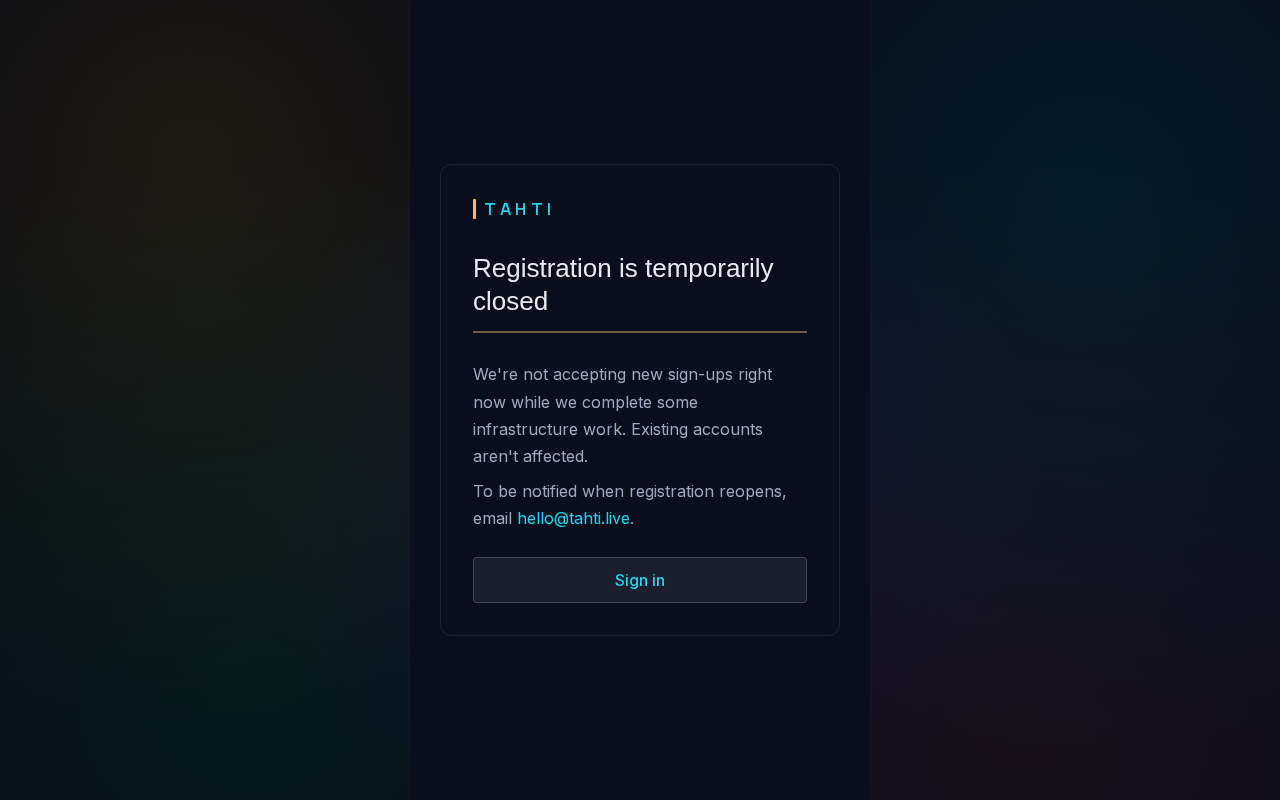
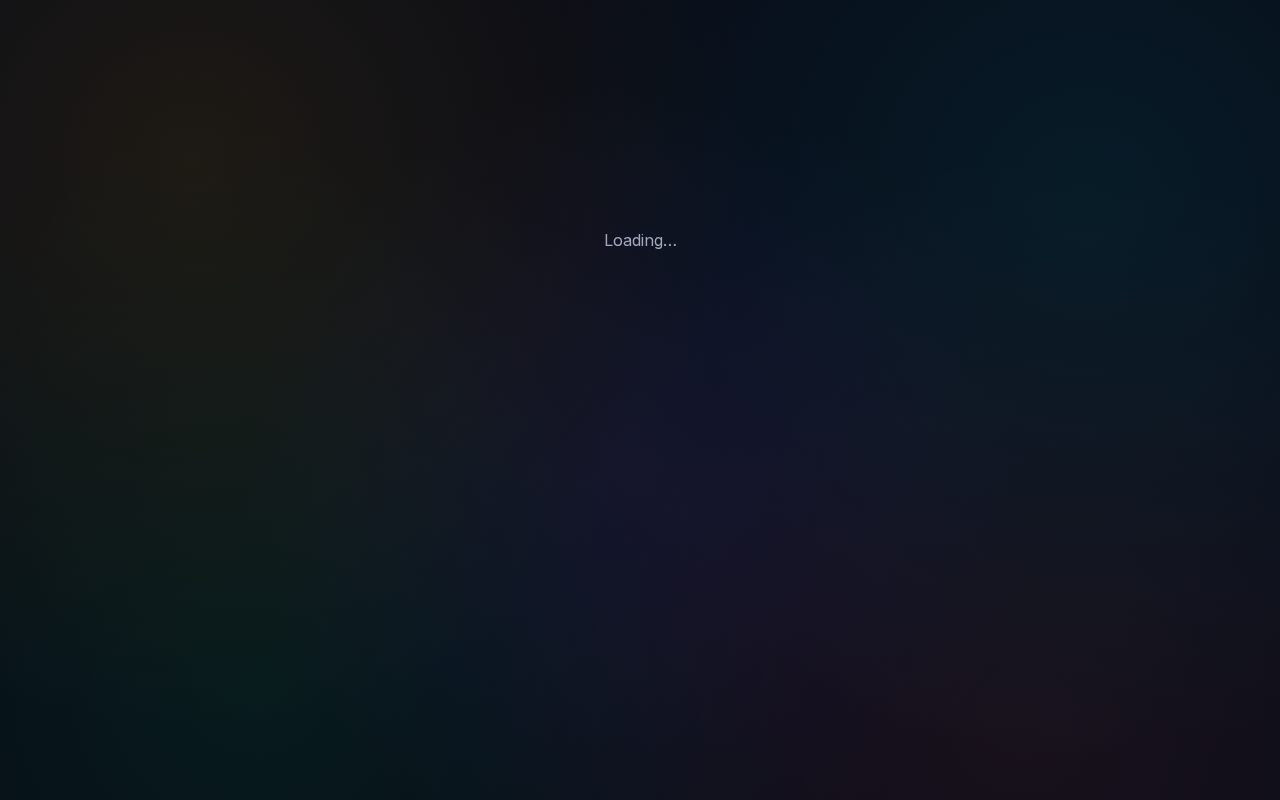
Reconcile governance docs and route map with implemented surfaces
Governance navigation moved audit to /admin/logs, resolutions into
the /admin/governance hub, and reports to /admin/reports. Update
flow docs, ground rules, project roadmap, phase-12 spec, and e2e
screenshot manifests to match, and add /transparency/methodology
to the sitemap. See docs/worklogs/2026-09-01-governance-route-map-update.md.

Claude-Session: https://claude.ai/code/session_01MqmWAFQbWz165kVPbjU8Wu

diff --git a/apps/web/src/app/sitemap.ts b/apps/web/src/app/sitemap.ts
@@ -28,6 +28,7 @@ export default async function sitemap(): Promise<MetadataRoute.Sitemap> {
   const staticPages: MetadataRoute.Sitemap = [
     { url: base, changeFrequency: 'weekly', priority: 1 },
     { url: `${base}/transparency`, changeFrequency: 'monthly', priority: 0.6 },
+    { url: `${base}/transparency/methodology`, changeFrequency: 'yearly', priority: 0.4 },
   ]
 
   const profileEntries: MetadataRoute.Sitemap = profiles.map((url) => ({

diff --git a/docs/flows/board-member.md b/docs/flows/board-member.md
@@ -81,9 +81,9 @@ flowchart TD
   Fin --> Ledger["/admin/financial/ledger"]
   Fin --> FanSubs["/admin/financial/fansubs"]
   Fin --> Legacy["/admin/financial/legacy-members"]
-  Gov --> Audit["/admin/governance/audit"]
-  Gov --> Res["/admin/governance/resolutions"]
-  Gov --> Report["/admin/governance/report"]
+  Gov --> Audit["/admin/logs"]
+  Gov --> Res["/admin/governance · board resolutions"]
+  Gov --> Report["/admin/reports · annual reports"]
   Gov --> Venues["/governance/venues verification"]
   Grants --> GrantYear["/admin/grants/:year"]
 ```
@@ -116,10 +116,10 @@ flowchart TD
 | └ Ledger | `/admin/financial/ledger` | Ledger entries |
 | └ Fan subs & payouts | `/admin/financial/fansubs` | Fan-sub money movement |
 | └ Legacy members | `/admin/financial/legacy-members` | Legacy membership queue |
-| **Governance** | `/admin/governance` | Hub: report, resolutions, AGM, audit, CSV exports |
-| └ Audit | `/admin/governance/audit` | Audit log |
-| └ Resolutions | `/admin/governance/resolutions` | Board resolutions |
-| └ Report | `/admin/governance/report` | Annual report generator |
+| **Governance** | `/admin/governance` | Hub: resolutions, AGM, audit, CSV exports |
+| └ Audit | `/admin/logs` | Audit log |
+| └ Resolutions | `/admin/governance` | Board resolutions |
+| └ Report | `/admin/reports` | Annual report generator |
 | **Features** | `/admin/feature-requests` | Feature request board |
 | **Grants** | `/admin/grants` | Grants overview; year drill-down |
 | **AGM** | `/admin/agm` | Agenda builder + persisted meeting/attendance/quorum + document archive — see [how governance works](../guides/governance-explained.md) |
@@ -151,9 +151,9 @@ flowchart TD
 | Fan subs | `/admin/financial/fansubs` | [`admin/financial-fansubs.png`](../e2e-screenshots/admin/financial-fansubs.png) |
 | Legacy members | `/admin/financial/legacy-members` | [`admin/financial-legacy.png`](../e2e-screenshots/admin/financial-legacy.png) |
 | Governance hub | `/admin/governance` | [`admin/governance.png`](../e2e-screenshots/admin/governance.png) |
-| Audit | `/admin/governance/audit` | [`admin/governance-audit.png`](../e2e-screenshots/admin/governance-audit.png) |
-| Resolutions | `/admin/governance/resolutions` | [`admin/governance-resolutions.png`](../e2e-screenshots/admin/governance-resolutions.png) |
-| Annual report | `/admin/governance/report` | [`admin/governance-report.png`](../e2e-screenshots/admin/governance-report.png) |
+| Audit | `/admin/logs` | [`admin/logs.png`](../e2e-screenshots/admin/logs.png) |
+| Resolutions | `/admin/governance` | [`admin/governance.png`](../e2e-screenshots/admin/governance.png) |
+| Annual report | `/admin/reports` | [`admin/reports.png`](../e2e-screenshots/admin/reports.png) |
 | Grants | `/admin/grants` | [`admin/grants.png`](../e2e-screenshots/admin/grants.png) |
 | AGM | `/admin/agm` | [`admin/agm.png`](../e2e-screenshots/admin/agm.png) |
 | Radio | `/admin/radio` | [`admin/radio.png`](../e2e-screenshots/admin/radio.png) |

diff --git a/docs/technical/phase-12.md b/docs/technical/phase-12.md
@@ -57,11 +57,11 @@ The existing `requireBoard` middleware on the API handles authentication. The fr
 /admin/status                      → service health + infra monitoring
 /admin/support                     → support ticket queue
 /admin/support/[id]                → ticket detail + timeline
-/admin/governance                  → audit log, resolutions, venues, reports
-/admin/governance/audit            → full audit log viewer
-/admin/governance/resolutions      → board resolutions
-/admin/governance/venues           → venue verification queue
-/admin/governance/report           → annual transparency report generator
+/admin/governance                  → resolutions, AGM, venues, reports
+/admin/logs                        → full audit/system log viewer
+/admin/venues                      → venue verification queue
+/admin/agm                         → AGM meetings, quorum, and documents
+/admin/reports                     → annual transparency report generator
 ```
 
 ### Design
@@ -622,7 +622,7 @@ enum SupportStatus {
 
 ## M21-G — Governance (`/admin/governance`)
 
-### Audit log viewer (`/admin/governance/audit`)
+### Audit log viewer (`/admin/logs`)
 
 Full `AuditLog` table as a paginated, filterable UI. Uses the same data as `GET /api/admin/audit/export.csv` (existing) but rendered in the browser.
 
@@ -648,14 +648,14 @@ Full `AuditLog` table as a paginated, filterable UI. Uses the same data as `GET 
 | `USER_UNSUSPEND` | Suspension lifted |
 | `BOARD_ROLE_CHANGE` | Board role changed |
 
-### Board resolutions (`/admin/governance/resolutions`)
+### Board resolutions (`/admin/governance`)
 
 Formal record of board decisions. Required by Finnish association law (`yhdistyslaki`) — minutes must be kept and accessible to members.
 
 ```mermaid
 sequenceDiagram
     participant Dir as Director
-    participant Web as /admin/governance/resolutions
+    participant Web as /admin/governance
     participant API as API
 
     Dir->>Web: Clicks "New resolution"
@@ -710,7 +710,7 @@ enum ResolutionOutcome {
 
 UI for the existing `GET /api/admin/venues` and `POST /api/admin/venues/:slug/verify` endpoints (already implemented in M17). Table of pending venues: name, city, submitter, submitted date, verify button. No new API work needed.
 
-### Annual report generator (`/admin/governance/report`)
+### Annual report generator (`/admin/reports`)
 
 One-click report assembly for the annual transparency report. Selects a year, pulls from ledger + grants + member stats, renders a preview (Markdown), and saves to MinIO as a versioned document.
 

diff --git a/docs/project-roadmap.md b/docs/project-roadmap.md
@@ -586,7 +586,7 @@ All are required before public beta (1 August 2026 target).
 | [x]  | **PLAT-046** | **Homepage upgrade (`/`)** — replace the minimal gateway card with the full v8 homepage: "On air right now" live channel tile grid (same data as `/listen`), stats strip (active artists, broadcasts this month, total hours), tagline + CTA to `/apply` / `/listen`. Keep the gateway redirect for non-JS as a fallback.                                                                                               | Medium | P2       |
 | [x]  | **PLAT-047** | **Self-serve artist signup flow** — open-beta multi-step wizard replacing the single `/apply` form: `/signup` (email + handle + tier), `/signup/payment` (Stripe Checkout for memberships, skip for free), `/signup/profile` (avatar, bio, location, genre tags), `/signup/broadcast` (stream-key display + OBS/Mixxx quickstart). Gated by `SIGNUP_OPEN=1` in production until public beta; enabled in dev by default. | Large  | P1       |
 | [x]  | **PLAT-048** | **`/admin/grants` + `/admin/grants/:year`** — dedicated grant cycle review and distribution-approval UI. The grant engine and ledger entries exist (M9) but there is no page to browse per-artist engagement-unit breakdowns, approve the annual distribution, or download the board-approval CSV. Route is currently 404.                                                                                              | Medium | P1       |
-| [x]  | **PLAT-049** | **`/admin/agm`** — AGM planning and proposal management page. Companion to `/admin/governance/resolutions`; needs: proposal submission form, agenda builder, member-notification send action, minutes upload. Route is currently 404.                                                                                                                                                                                   | Medium | P2       |
+| [x]  | **PLAT-049** | **`/admin/agm`** — AGM planning and proposal management page. Companion to `/admin/governance`; includes proposal review, agenda builder, persisted meeting records, quorum, and governance document records.                                                                                                                                                                                   | Medium | P2       |
 
 ### Website-promise gap audit (2026-06-09)
 

diff --git a/docs/design/ground-rules.md b/docs/design/ground-rules.md
@@ -84,7 +84,7 @@ This blocks PRs that introduce a scrolling dashboard route. The first run will f
 | `/u/:handle` channel page | Listener-facing; standard web-page scroll is acceptable here, but the player + chat must be above the fold. |
 | `/` homepage | Marketing-like; scroll allowed but discouraged. |
 | `/dashboard/stats/detail` | New route (not in the 16 reference HTMLs) created to hold the plays-over-time chart and the listener choropleth map that had been bolted onto `/dashboard/stats` itself, violating Rule B against the 09-stats-reframe.html reference. The map is an SVG world projection scaled to container width; shrinking it enough to clear the remaining ~185px would make country shapes illegible at 1440×900. Header + chart fit above the fold; the map renders tall below it. |
-| `/admin/governance/audit` | Same pattern as `/admin/grants`: 50 rows/page with Previous/Next pagination, not an unbounded list. Header + filter form bottoms out at 231px, comfortably above the fold; the table itself is the part that's tall, by design. |
+| `/admin/logs` | Same pattern as `/admin/grants`: 50 rows/page with Previous/Next pagination, not an unbounded list. Header + filter form bottoms out at 231px, comfortably above the fold; the table itself is the part that's tall, by design. |
 | `/admin/users` | Paginated user directory (`page` query param, search/filter form). Filter bar fits at 192px, well above the fold; the table is the part that scrolls, and it's expected to grow with the org's membership. |
 | `/transparency` | Public report page, not a task surface — same category as `/` and the channel page. Header + KPI strip + ledger preview bottom out at 598px, well above the fold; the YTD breakdown, monthly detail, board resolutions, and storage stats below are normal scrolling report content. |
 

diff --git a/docs/worklogs/2026-09-01-governance-route-map-update.md b/docs/worklogs/2026-09-01-governance-route-map-update.md
@@ -1,0 +1,19 @@
+# Governance route and map update — 2026-09-01
+
+The governance navigation and documentation were reconciled with the current
+implemented surfaces.
+
+## Canonical routes
+
+- Member governance: `/governance` and `/dashboard/governance`
+- Member topics: `/dashboard/governance/topics`
+- Board governance hub and resolutions: `/admin/governance`
+- AGM planning, meetings, quorum, and document records: `/admin/agm`
+- Annual reports: `/admin/reports`
+- Privileged audit/system logs: `/admin/logs`
+- Public transparency: `/transparency` and `/transparency/methodology`
+
+The player route map now includes the public closed-motion history and yearly
+grant-report links. Obsolete documentation references to
+`/admin/governance/audit`, `/admin/governance/resolutions`, and
+`/admin/governance/report` were replaced with their canonical destinations.

diff --git a/docs/flows/site-map.md b/docs/flows/site-map.md
@@ -35,7 +35,7 @@ flowchart TB
 
   %% Authed listener / member
   Dash["/dashboard"]:::auth
-  Gov["/governance"]:::mem
+  Gov["/governance → /dashboard/governance"]:::mem
   GovTopics["/governance/topics"]:::mem
   GovFeat["/governance/feature-requests"]:::mem
   GovVenues["/governance/venues"]:::board
